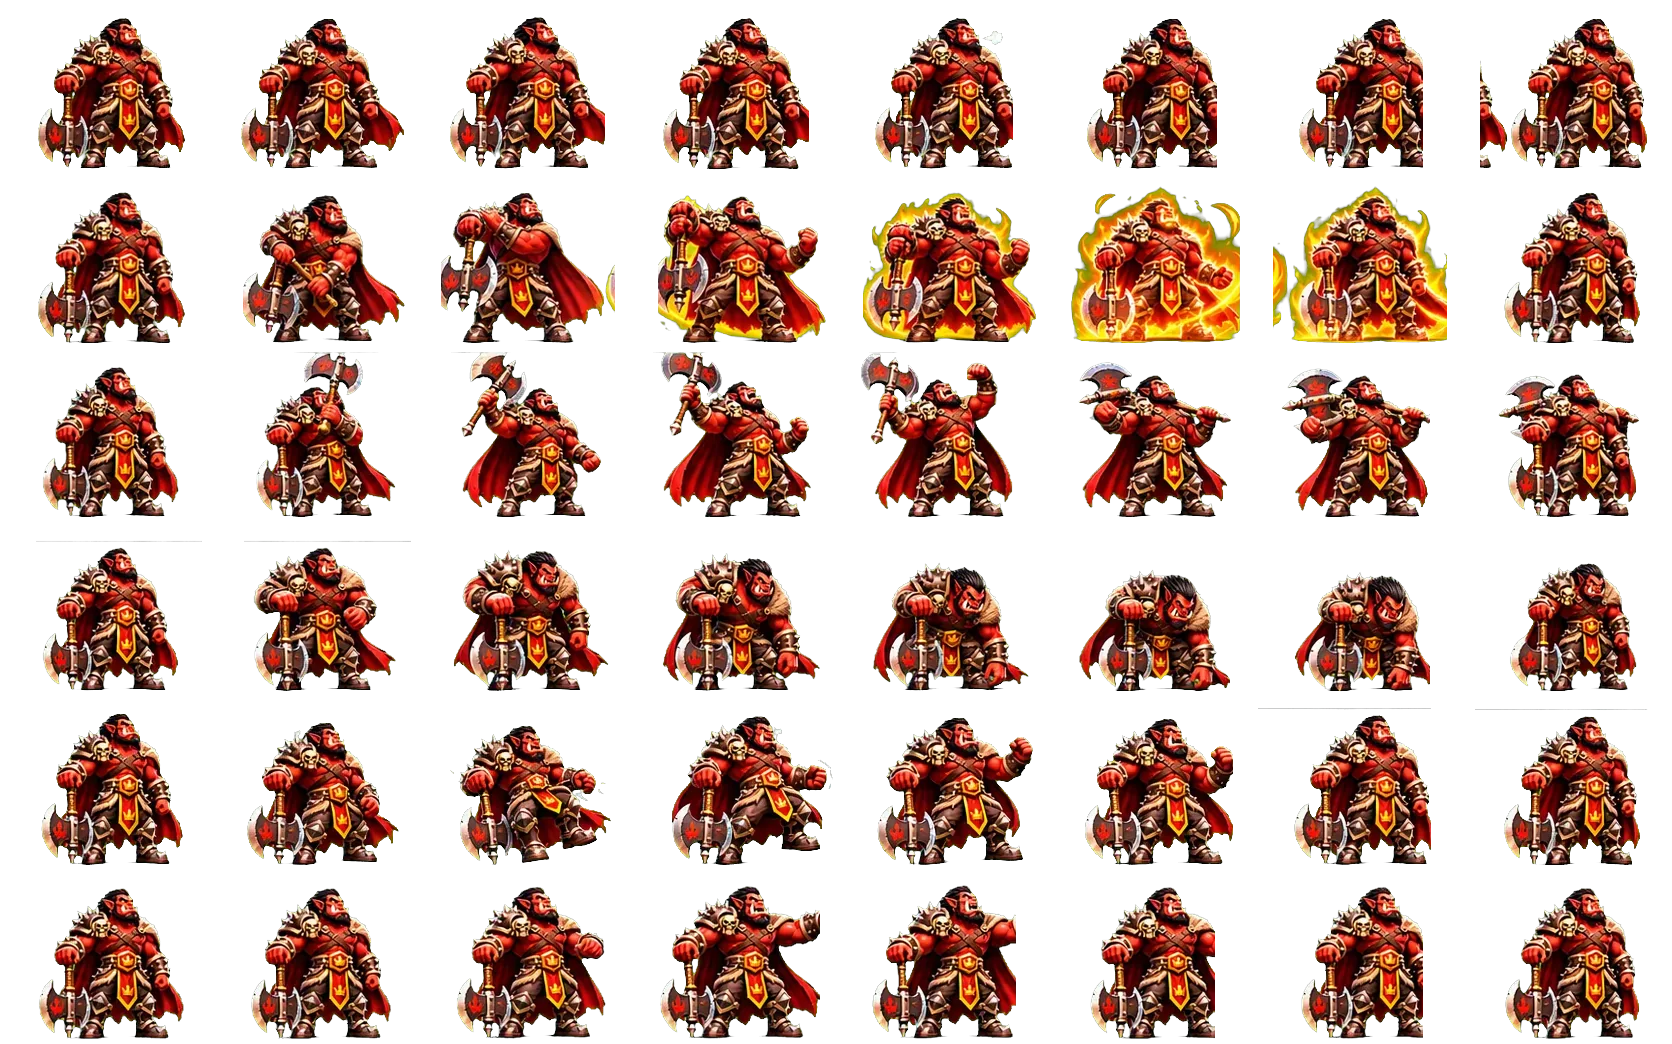
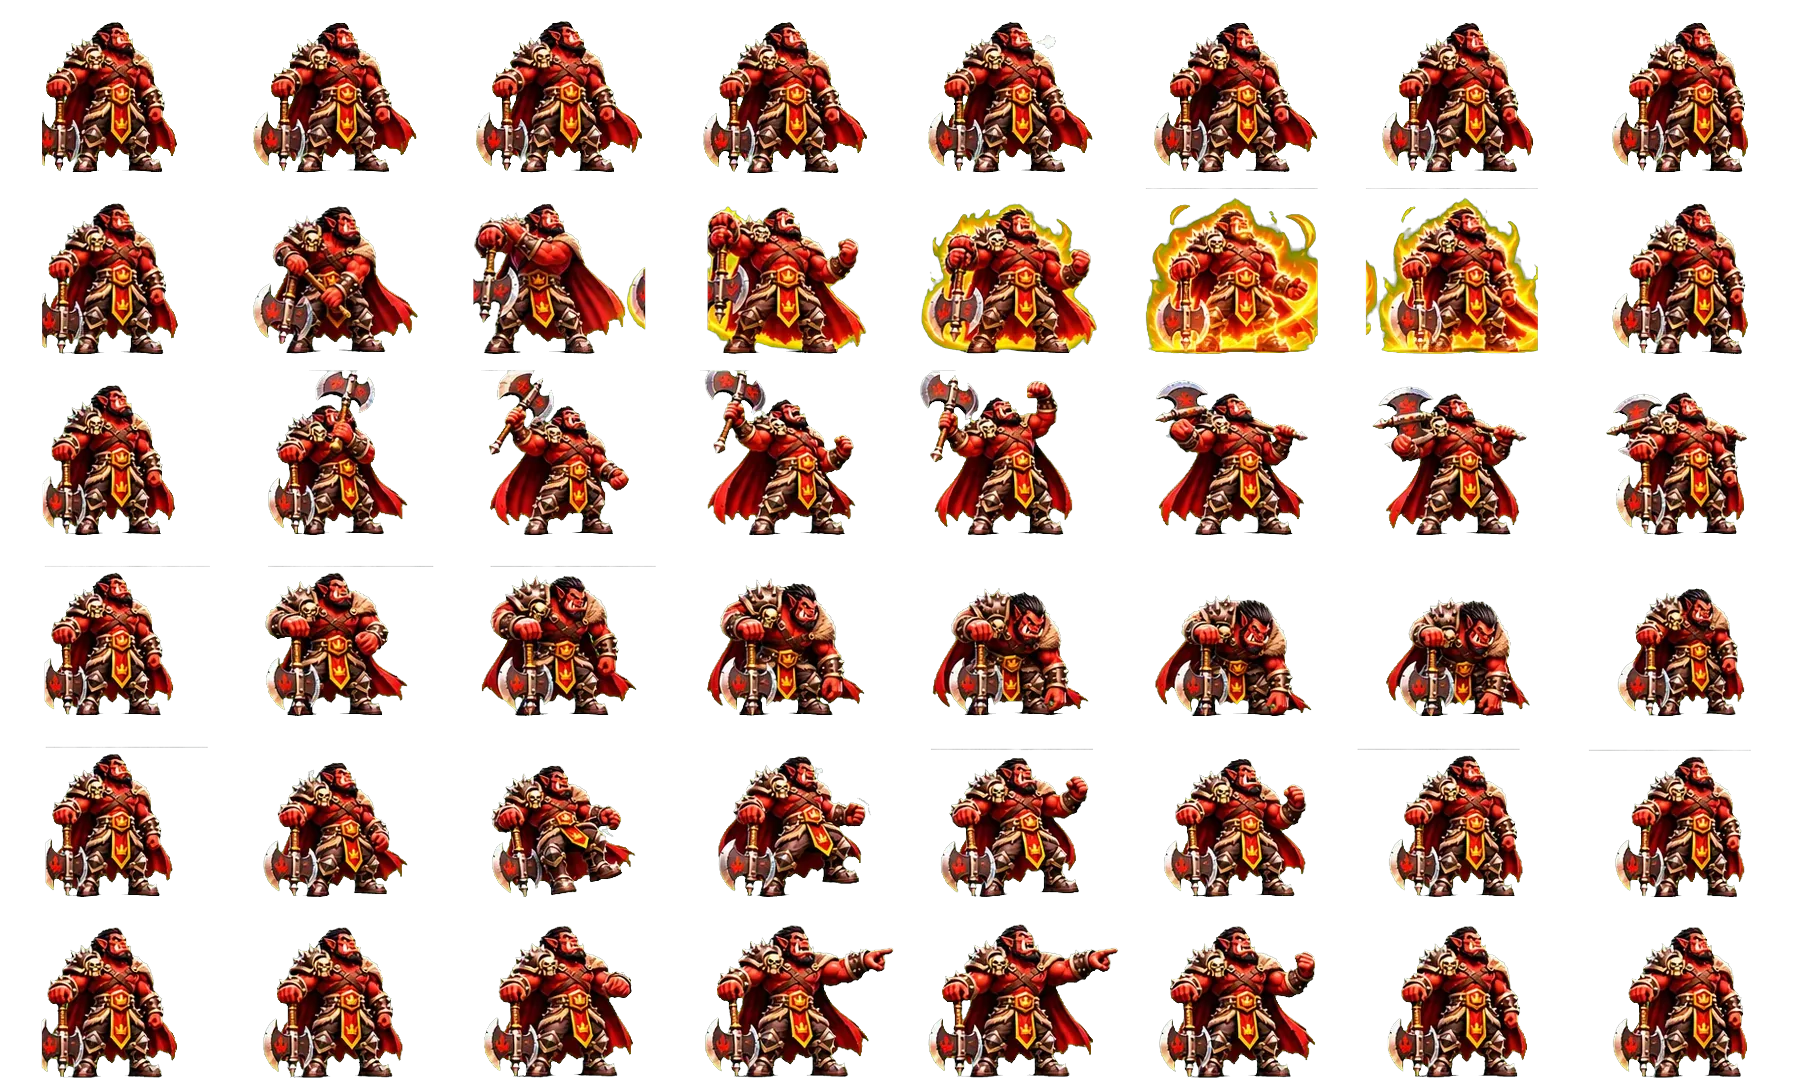
Barão em pé na sacada atrás do parapeito, quadros limpos e zoom no vencedor
- O parapeito e o escudo da sacada são redesenhados na frente do Barão: ele fica
  no piso da sacada, sem parecer flutuar
- Folha de quadros separada pelo desenho do personagem (capa/braço que passam da
  coluna ficam inteiros; nenhum pedaço do quadro vizinho), com margem entre quadros
- Fim de partida: câmera aproxima do Barão vencedor durante a comemoração;
  o HUD some e o título fica no alto

Claude-Session: https://claude.ai/code/session_019FHBnxKyTVWzaJqkftQpoS

diff --git a/web/js/render.js b/web/js/render.js
@@ -15,7 +15,11 @@
       { y: 652, y0: 545, y1: 742, xL: 292, xR: 1380, k: 1 },
     ],
     castle: [{ x0: 0, y0: 0, x1: 360, y1: 760, gx: 190, gy: 540 }, { x0: 1312, y0: 0, x1: 1672, y1: 760, gx: 1482, gy: 540 }],
-    baron: [{ x: 226, y: 277, r: 56 }, { x: 1446, y: 277, r: 56 }],
+    // Barão em pé no piso da sacada (pés escondidos atrás do parapeito, que é redesenhado na frente)
+    baron: [{ x: 178, y: 238, r: 56 }, { x: 1494, y: 238, r: 56 }],
+    // contorno do parapeito + escudo da sacada esquerda (a direita é espelhada)
+    railing: [[38, 283], [206, 282], [214, 268], [256, 260], [294, 268], [300, 262], [328, 248], [348, 226], [360, 204], [372, 210], [372, 300],
+      [340, 334], [300, 348], [272, 372], [252, 376], [230, 352], [200, 352], [38, 352]],
     unitR: 46,
   };
   BB.ARENA = ARENA;
@@ -209,6 +213,14 @@
       g.save();
       if (sh) g.translate((Math.random() - 0.5) * sh, (Math.random() - 0.5) * sh);
       g.translate(this.ox, this.oy); g.scale(this.s, this.s);
+      // fim de partida: câmera aproxima do Barão vencedor para mostrar a comemoração
+      if (m.over && m.winner >= 0) {
+        this.endZoom = Math.min(1, (this.endZoom || 0) + dt / 1.2);
+        const k = this.endZoom * this.endZoom * (3 - 2 * this.endZoom), b = ARENA.baron[m.winner];
+        const z = 1 + 1.6 * k, fx = b.x, fy = b.y - 10;
+        const tx = fx + (AW / 2 - fx) * k, ty = fy + (AH * 0.48 - fy) * k;
+        g.translate(tx, ty); g.scale(z, z); g.translate(-fx, -fy);
+      } else this.endZoom = 0;
       if (ready) g.drawImage(img, 0, 0, AW, AH);
       for (let i = 0; i < 2; i++) { if (this.castleHit[i] > 0) this.castleHit[i] -= dt; if (this.baronCast[i] > 0) this.baronCast[i] = Math.max(0, this.baronCast[i] - dt * 1.2); }
       if (m.over && m.winner >= 0) this.collapse[1 - m.winner] = Math.min(1, this.collapse[1 - m.winner] + dt * 0.6);
@@ -288,6 +300,24 @@
       return im.complete && im.naturalWidth ? im : null;
     }
 
+    // parapeito da sacada recortado da arena e desenhado na frente do Barão
+    drawRailing(owner) {
+      if (!this.railing) {
+        const img = this.arena;
+        if (!img.complete || !img.naturalWidth) return;
+        this.railing = [0, 1].map((side) => {
+          const c = document.createElement('canvas'); c.width = AW; c.height = 420;
+          const g = c.getContext('2d');
+          g.beginPath();
+          ARENA.railing.forEach(([x, y], i) => { const px = side ? AW - x : x; if (i) g.lineTo(px, y); else g.moveTo(px, y); });
+          g.closePath(); g.clip();
+          g.drawImage(img, 0, 0, AW, AH);
+          return c;
+        });
+      }
+      this.g.drawImage(this.railing[owner], 0, 0);
+    }
+
     setBaronAnim(owner, name) { this.baronState[owner] = { name, t: 0 }; }
     // reações do Barão (só interrompem a espera ou outra reação, nunca o poder)
     baronReact(owner, name) {
@@ -322,6 +352,7 @@
         g.save(); g.translate(b.x, foot); if (owner === 1) g.scale(-1, 1);
         g.drawImage(bsheet, fr * ba.w, row * ba.h, ba.w, ba.h, -ba.ax * s, -ba.ay * s, ba.w * s, ba.h * s);
         g.restore();
+        this.drawRailing(owner);
         return;
       }
       const sp = BB.SPRITES && BB.SPRITES[p.baron.id];
@@ -554,7 +585,7 @@
       g.globalAlpha = 1;
     }
 
-    reset() { this.views.clear(); this.ghosts = []; this.fx = []; this.texts = []; this.collapse = [0, 0]; this.baronCast = [0, 0]; this.baronAnim = [-1, -1]; this.baronState = [{ name: 'idle', t: 0 }, { name: 'idle', t: 0 }]; this.castleHit = [0, 0]; }
+    reset() { this.views.clear(); this.ghosts = []; this.fx = []; this.texts = []; this.collapse = [0, 0]; this.baronCast = [0, 0]; this.baronAnim = [-1, -1]; this.baronState = [{ name: 'idle', t: 0 }, { name: 'idle', t: 0 }]; this.castleHit = [0, 0]; this.endZoom = 0; }
   }
 
   function medallion(g, img, x, y, r, ring, lw, flip) {

diff --git a/web/css/style.css b/web/css/style.css
@@ -255,7 +255,8 @@ img { -webkit-user-drag: none; pointer-events: none; }
 .hb-tip small { display: block; font-size: .6em; color: var(--gold1); text-transform: uppercase; font-weight: 900; }
 .hb-tip b { display: block; font-size: 1em; margin: .1em 0 .25em; }
 .hb-tip p { margin: 0; font-size: .72em; line-height: 1.3; color: #dfe6ff; }
-.end-title { position: absolute; left: 0; right: 0; top: 34%; text-align: center; font-size: 7rem; animation: pop .7s cubic-bezier(.2,1.6,.4,1); }
+#hud.ending [data-r] { opacity: 0; transition: opacity .5s; pointer-events: none; }
+.end-title { position: absolute; left: 0; right: 0; top: 6%; text-align: center; font-size: 7rem; animation: pop .7s cubic-bezier(.2,1.6,.4,1); }
 
 /* ---------- sobreposições ---------- */
 #toast { position: fixed; left: 50%; top: 42%; transform: translate(-50%, -50%); pointer-events: none; z-index: 30; }

diff --git a/web/js/battle.js b/web/js/battle.js
@@ -375,7 +375,7 @@
       if (m.over) {
         if (this.endT === 0) this.showEnd();
         this.endT += dt;
-        if (this.endT > 3.2) this.finish();
+        if (this.endT > 4.6) this.finish();
       }
     }
 
@@ -385,6 +385,7 @@
       document.getElementById('toast').innerHTML = '';
       BB.audio.stopMusic();
       BB.audio.play(m.winner === 0 ? 'victory' : 'defeat');
+      $('#hud').classList.add('ending');
       const key = m.winner === 0 ? 'result.victory' : m.winner === 1 ? 'result.defeat' : 'result.draw';
       const d = document.createElement('div');
       d.className = 'end-title title'; d.textContent = T(key);

diff --git a/web/js/baron-anim.js b/web/js/baron-anim.js
@@ -2,10 +2,10 @@
 window.BB = window.BB || {};
 BB.BARON_ANIM = {
  "thorg": {
-  "ax": 110,
-  "ay": 168,
+  "ax": 106,
+  "ay": 172,
   "body": 150,
-  "h": 174,
+  "h": 181,
   "n": 8,
   "rows": [
    "idle",
@@ -15,6 +15,6 @@ BB.BARON_ANIM = {
    "hurt",
    "cheer"
   ],
-  "w": 209
+  "w": 225
  }
 };

diff --git a/tools/extract-baron-sheet.py b/tools/extract-baron-sheet.py
@@ -34,28 +34,42 @@ def main(uid, path):
     for i in range(1, len(ROWS)):  # ajusta cada corte para a linha mais vazia perto do corte nominal
         lo, hi = bands[i] - 40, bands[i] + 40
         bands[i] = lo + int(np.argmin(rowmass[lo:hi]))
-    x0 = int(W * 0.1)  # pula a coluna de rótulos
+    x0 = int(W * 0.109)  # pula a coluna de rótulos (com a seta)
     colw = (W - x0) / COLS
     frames, scales = {}, {}
     for r, name in enumerate(ROWS):
         y0, y1 = bands[r], bands[r + 1]
-        row = []
+        # separa os personagens pelo desenho (não por coluna fixa): cada pedaço vai para o quadro
+        # cuja coluna contém o seu centro, então capa ou braço que passa da coluna continua inteiro
+        band = rgba[y0:y1].copy()
+        m = band[..., 3] > 60
+        m[:, :x0] = False
+        lab, n = ndimage.label(ndimage.binary_dilation(m, iterations=1))
+        lab = np.where(m, lab, 0)
+        row = [np.zeros_like(band) for _ in range(COLS)]
+        objs = ndimage.find_objects(lab)
+        sizes = ndimage.sum(m, lab, range(1, n + 1)) if n else []
+        for i, sl in enumerate(objs):
+            if sl is None or sizes[i] < 40:
+                continue
+            comp = lab == i + 1
+            ys, xs = np.nonzero(comp)
+            if xs.max() - xs.min() > colw * 1.45:  # dois personagens encostados: divide pelas colunas
+                for c in range(COLS):
+                    cx0, cx1 = int(x0 + c * colw), int(x0 + (c + 1) * colw)
+                    part = comp.copy(); part[:, :cx0] = False; part[:, cx1:] = False
+                    row[c][part] = band[part]
+                continue
+            c = int(np.clip((np.median(xs) - x0) // colw, 0, COLS - 1))
+            row[c][comp] = band[comp]
+        # mantém só o personagem principal de cada quadro (e efeitos ligados a ele)
         for c in range(COLS):
-            cx0, cx1 = int(x0 + c * colw), int(x0 + (c + 1) * colw)
-            cell = rgba[y0:y1, cx0:cx1].copy()
-            m = cell[..., 3] > 60
-            lab, n = ndimage.label(ndimage.binary_dilation(m, iterations=3))
-            if n:
-                sizes = ndimage.sum(m, lab, range(1, n + 1))
-                objs = ndimage.find_objects(lab)
-                cw = cell.shape[1]
-                def ok(i, sz):  # pedaços que tocam a borda lateral vêm do quadro vizinho
-                    sl = objs[i]
-                    edge = sl[1].start <= 1 or sl[1].stop >= cw - 1
-                    return sz >= sizes.max() * (0.3 if edge else 0.04)
-                keep = np.isin(lab, [i + 1 for i, sz in enumerate(sizes) if ok(i, sz)])
-                cell[..., 3] = np.where(keep, cell[..., 3], 0)
-            row.append(cell)
+            mm = row[c][..., 3] > 60
+            l2, n2 = ndimage.label(ndimage.binary_dilation(mm, iterations=4))
+            if n2:
+                sz = ndimage.sum(mm, l2, range(1, n2 + 1))
+                keep = np.isin(l2, [j + 1 for j, z in enumerate(sz) if z >= sz.max() * 0.06])
+                row[c][..., 3] = np.where(keep, row[c][..., 3], 0)
         frames[name] = row
         # escala da linha: o 1º quadro (pose de espera) define a altura do corpo
         ys = np.nonzero(row[0][..., 3].max(axis=1) > 60)[0]
@@ -79,11 +93,15 @@ def main(uid, path):
             boxes.append((xs.min() - cx, ys.min() - foot, xs.max() - cx, ys.max() - foot))
     L = int(-min(b[0] for b in boxes)) + 4; R = int(max(b[2] for b in boxes)) + 4
     T = int(-min(b[1] for b in boxes)) + 4; B = 6
-    fw, fh = L + R, T + B
+    G = 3  # margem transparente em volta de cada quadro: nada de um quadro aparece no vizinho
+    fw, fh = L + R + 2 * G, T + B + 2 * G
     sheet = Image.new('RGBA', (fw * COLS, fh * len(ROWS)), (0, 0, 0, 0))
     for r, name in enumerate(ROWS):
         for c, (img, cx, foot) in enumerate(out_cells[name]):
-            sheet.paste(img, (int(c * fw + L - cx), int(r * fh + T - foot)), img)
+            cell = Image.new('RGBA', (fw - 2 * G, fh - 2 * G), (0, 0, 0, 0))
+            cell.paste(img, (int(L - cx), int(T - foot)), img)  # recorta o que passar do quadro
+            sheet.paste(cell, (c * fw + G, r * fh + G))
+    L += G; T += G
     os.makedirs(os.path.join(ROOT, 'web', 'img', 'barons'), exist_ok=True)
     sheet.save(os.path.join(ROOT, 'web', 'img', 'barons', uid + '_anim.webp'), 'WEBP', quality=84, method=6)
     meta_path = os.path.join(ROOT, 'web', 'js', 'baron-anim.js')
